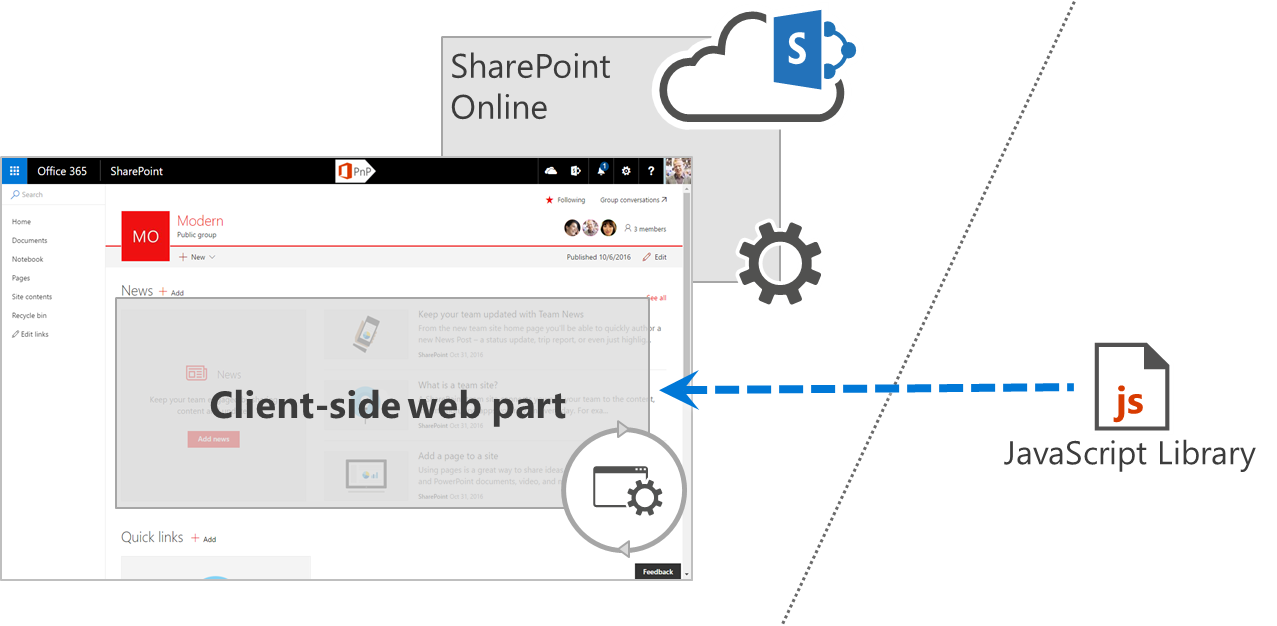
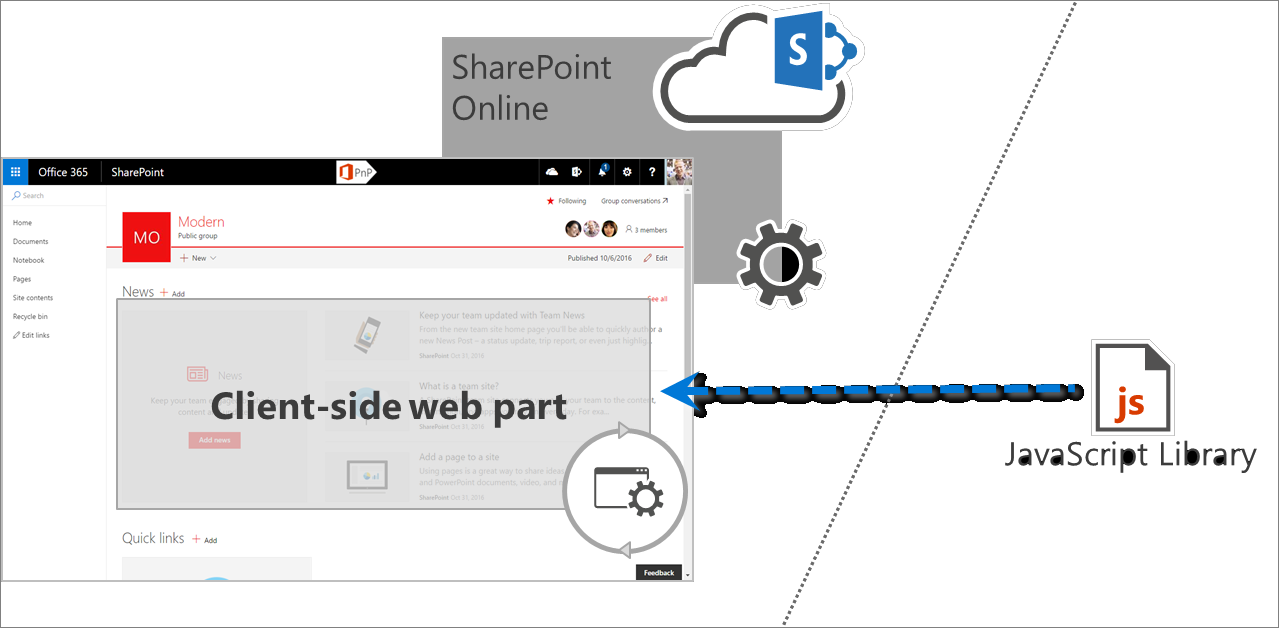
Refreshed "Guidance / SharePoint Framework solutions governance considerations"
- fixed grammar / spelling issues
- cleaned up markdown issues
  - bullet usage
  - code listings
  - correct usage of italic, bold, & inline code formats
- improved Acrolinx score
- added 1px gray border to all images with white/black backgrounds
  - required by MSDocs so it's clear to the reader, regardless of the theme they have selected for MSDocs (light/dark), where images start/stop

diff --git a/docs/spfx/web-parts/guidance/governance-considerations.md b/docs/spfx/web-parts/guidance/governance-considerations.md
@@ -1,66 +1,67 @@
 ---
 title: SharePoint Framework solutions governance considerations
 description: To get the most benefit from SharePoint Framework solutions, your organization should have an actionable governance plan covering the most important project management considerations.
-ms.date: 04/21/2020
+ms.date: 07/01/2020
 ms.prod: sharepoint
 localization_priority: Normal
 ---
-
-
 # SharePoint Framework solutions governance considerations
 
-With the SharePoint Framework, your organization can easily build solutions that easily integrate the capabilities available in SharePoint and Office 365. SharePoint Framework solutions work across modern web technologies and different mobile devices so you can create productive experiences and apps that are responsive and mobile-ready from day one. To get the most benefit from SharePoint Framework solutions, your organization should have an actionable governance plan covering the most important project management considerations.
+With the SharePoint Framework, your organization can easily build solutions that easily integrate the capabilities available in SharePoint and Microsoft 365. SharePoint Framework solutions work across modern web technologies and different mobile devices so you can create productive experiences and apps that are responsive and mobile-ready from day one. To get the most benefit from SharePoint Framework solutions, your organization should have an actionable governance plan covering the most important project management considerations.
+
+> [!NOTE]
+> Throughout this article, the word **component** is used to refer to all types of things developers can build with the SharePoint Framework. This includes client-side web parts, extensions, and library components.
 
 ## Anatomy of SharePoint Framework solutions
 
 ![Diagram illustrating the composition of SharePoint Framework solutions](../../../images/guidance-governance-spfx-structure-schema.png)
 
-SharePoint Framework solutions consist of two parts: code (often referred to as a web part bundle) deployed to a URL, and an .sppkg file that contains a web part manifest with a URL pointing to the location where the web part code is deployed. There are no particular restrictions to where the code is deployed, as long as users working with the web part can access the web part code. Organizations can choose, for example, to have their web parts deployed to the [Office 365 public CDN](https://developer.microsoft.com/office/blogs/office-365-public-cdn-developer-preview-release), [Azure storage](../get-started/deploy-web-part-to-cdn.md), or a privately-owned web server.
+SharePoint Framework solutions consist of two parts: code (often referred to as a component's bundle) deployed to a URL, and an **\*.sppkg** file that contains a component's manifest with a URL pointing to the location where the component's code is deployed. The component's code can be deployed anywhere, as long as users working with the component can access the component's code. Organizations can choose, for example, to have their components deployed to the [Microsoft 365 public CDN](https://developer.microsoft.com/office/blogs/office-365-public-cdn-developer-preview-release), [Azure storage](../get-started/deploy-web-part-to-cdn.md), or a privately owned web server.
 
 ## Web part code-hosting location considerations
 
-The most important thing that organizations should know before deploying SharePoint Framework solutions is where the code of the solution is deployed. SharePoint Framework solutions are executed as a part of the page in the context of the current user. As a result, whatever the user can do, the web part's code can do as well. In contrast to SharePoint Add-ins, there is no separate permission scope applied to SharePoint Framework solutions. This is why SharePoint administrators should treat SharePoint Framework solutions as high-trust solutions, the same way they treat farm solutions on-premises. The location where the web part's code is deployed is important for a number of reasons. 
-
-Consider the following location issues.
+The most important thing that organizations should know before deploying SharePoint Framework solutions is where the code of the solution is deployed. SharePoint Framework solutions are executed as a part of the page in the context of the current user. As a result, whatever the user can do, the component's code can do as well. In contrast to SharePoint Add-ins, there's no separate permission scope applied to SharePoint Framework solutions. This is why SharePoint administrators should treat SharePoint Framework solutions as high-trust solutions, the same way they treat farm solutions on-premises. The location where the component's code is deployed is important for a number of reasons.
 
 ### Is the code-hosting location supported by the organization?
 
-SharePoint Framework doesn't impose any restrictions regarding where the solution's code is deployed. As a result, developers and vendors can deploy the code to a range of locations within or outside the organization's IT department. Different organizations may have different server requirements ranging from access policies to SLAs. Before deploying a SharePoint Framework solution package, organizations should ensure that the server used to host the code is a known server approved to be used by the organization.
+SharePoint Framework doesn't impose any restrictions where the solution's code is deployed. As a result, developers and vendors can deploy the code to a range of locations within or outside the organization's IT department. Different organizations may have different server requirements ranging from access policies to SLAs. 
+
+Before deploying a SharePoint Framework solution package, organizations should ensure that the server used to host the code is a known server approved to be used by the organization.
 
 ### Who manages the code-hosting location?
 
-SharePoint Framework solutions execute as a part of the page in the context of the current user. While an organization could perform a code review before deploying a solution package, to verify that the code can be trusted, it also should ensure the integrity of the code as long as it's deployed to the tenant. Organizations should have a clear understanding of who manages the hosting location, who and under what circumstances they can modify the files, and what the update approval process looks like. Establishing this information upfront not only helps organizations control the update process, but also lowers the risk of deploying malicious code.
+SharePoint Framework solutions execute as a part of the page in the context of the current user. While an organization could do a code review before deploying a solution package, to verify that the code can be trusted, it also should ensure the integrity of the code as long as it's deployed to the tenant. Organizations should have a clear understanding of who manages the hosting location, who and under what circumstances they can modify the files, and what the update approval process looks like. Establishing this information upfront not only helps organizations control the update process, but also lowers the risk of deploying malicious code.
 
 ### What is the SLA for the hosting location?
 
-When organizations use Office 365 and SharePoint Online, they rely on the SLA provided by Microsoft. SharePoint Framework solutions that extend the standard capabilities of SharePoint and Office 365 should be deployed to servers that meet or exceed the SLA provided by Microsoft. That way, organizations can ensure that they are able to truly benefit from the added values of their customizations.
+When organizations use Microsoft 365 and SharePoint Online, they rely on the SLA provided by Microsoft. SharePoint Framework solutions that extend the standard capabilities of SharePoint and Microsoft 365 should be deployed to servers that meet or exceed the SLA provided by Microsoft. That way, organizations can ensure that they're able to truly benefit from the added values of their customizations.
 
 ### Is the hosting location optimized for performance?
 
-Loading existing libraries from a URL instead of embedding them in the web part bundle is the first step to speed up the loading time of SharePoint Framework solutions. To get the most out of it, you want to ensure that the server hosting the different scripts is correctly configured for optimal performance. It should serve all files compressed, and the longer it allows proxies and clients to cache the files, the longer users will be able to load these scripts from their local cache, significantly speeding up loading SharePoint pages containing web parts.
+Loading existing libraries from a URL instead of embedding them in the component bundle is the first step to speed up the loading time of SharePoint Framework solutions. To get the most out of it, you want to ensure that the server hosting the different scripts is correctly configured for optimal performance. It should serve all files compressed, and the longer it allows proxies and clients to cache the files, the longer users will load these scripts from their local cache, significantly speeding up loading SharePoint pages containing components.
 
 ## Tools and libraries
 
-When building client-side solutions, developers can choose from a variety of libraries such as React, Angular, jQuery, or Knockout. Using an existing JavaScript library makes it easier for developers to build rich solutions. There are big differences between how the different libraries work, and often specific knowledge is required to fully understand how to build a solution using the particular library.
+When building client-side solutions, developers can choose from various libraries such as React, Angular, jQuery, or Knockout. Using an existing JavaScript library makes it easier for developers to build rich solutions. There are differences between how the different libraries work, and often specific knowledge is required to fully understand how to build a solution using the particular library.
 
-Once released to your production tenant, you should ensure that your support organization (either your own IT department or a contracted third party) is capable of supporting the solution. To do this, the support organization should have at least a basic understanding of the library used to build that solution. Also, as you increase the number of libraries that you use across your tenant, the harder it is to support the different solutions. Selecting one or two libraries to use in your organization helps you lower the operational costs. Before deploying a solution to your production tenant, you should ensure that the solution is using only libraries supported in your organization.
+Once released to your production tenant, you should ensure that your organization (either your own IT department or a contracted third party) can support the solution. To do this, the support organization should have at least a basic understanding of the library used to build that solution. Also, as you increase the number of libraries that you use across your tenant, the harder it's to support the different solutions. Selecting one or two libraries to use in your organization helps you lower the operational costs. Before deploying a solution to your production tenant, you should ensure that the solution is using only libraries supported in your organization.
 
 ## Using external scripts
 
-When using existing JavaScript libraries, developers can either choose to include them in the web part code bundle or load them from a URL. Loading libraries from URLs allows developers to optimize SharePoint Framework solutions for performance. Because libraries are loaded from a URL, they don't need to be included in the web part bundle, which decreases its size making it load faster. Additionally, by referencing the same libraries across the whole tenant, SharePoint Framework solutions load faster by reusing the previously downloaded scripts from the local cache.
+When using existing JavaScript libraries, developers can either choose to include them in the component code bundle or load them from a URL. Loading libraries from URLs allows developers to optimize SharePoint Framework solutions for performance. Because libraries are loaded from a URL, they don't need to be included in the component bundle, which reduces its size making it load faster. Additionally, by referencing the same libraries across the whole tenant, SharePoint Framework solutions load faster by reusing the previously downloaded scripts from the local cache.
 
-There are no restrictions to where the existing libraries can be loaded from, and it's important to know from which servers the external scripts are loaded. Together with the web part code, these scripts run in the context of the current user and can do whatever the current user is capable of doing. Therefore, it's important that you trust these scripts and their integrity. Some organizations have strict policies relating to resources sourced from public CDNs, and you should ensure that the solution and its resources meet your organizational policies.
+There are no restrictions to where the existing libraries can be loaded from, and it's important to know from which servers the external scripts are loaded. Together with the component code, these scripts run in the context of the current user and can do whatever the current user can do. It's important that you trust these scripts and their integrity. Some organizations have strict policies relating to resources sourced from public CDNs, and you should ensure that the solution and its resources meet your organizational policies.
 
 ## Approving SharePoint Framework solutions for deployment
 
-SharePoint Framework solutions are deployed to a tenant centrally through the app catalog. Your organization should have a plan in place describing who is allowed to deploy and approve SharePoint Framework packages. This is important, because this plan should include who is responsible to verify that the packages that are deployed are secure and meet the organizational policies. SharePoint Framework solutions run in the browser in the context of the current user and, unlike SharePoint Add-ins, always have the same permissions as the currently signed-in user. Before deploying and approving a SharePoint Framework solution for use in your organization, its origin and other criteria mentioned previously in this article should be carefully examined.
+SharePoint Framework solutions are deployed to a tenant centrally through the app catalog. They can also be deployed to select sites using the site collection scoped app catalog. Your organization should have a plan in place describing who is allowed to deploy and approve SharePoint Framework packages. This is important, because this plan should include who is responsible to verify that the packages that are deployed are secure and meet the organizational policies. SharePoint Framework solutions run in the browser in the context of the current user and, unlike SharePoint Add-ins, always have the same permissions as the currently signed-in user. Before deploying and approving a SharePoint Framework solution for use in your organization, its origin and other criteria mentioned previously in this article should be carefully examined.
 
-To verify that your SharePoint Framework solution meets your organization's policies, you should review the contents of the .sppkg package that you want to deploy and closely examine the contents of the referenced scripts and the location where they are hosted. This step can be performed manually, or it can be automated by using third-party tooling. [SharePoint Customization Analysis Framework](https://rencore.com/products/#spcaf) (SPCAF) is an example of a third-party solution that significantly simplifies the process of analyzing the contents of SharePoint Framework solutions and verifying that they meet your organizational security and governance requirements.
+To verify that your SharePoint Framework solution meets your organization's policies, you should review the contents of the **\*.sppkg** package that you want to deploy and closely examine the contents of the referenced scripts and the location where they're hosted. This step can be performed manually, or it can be automated by using third-party tooling. [SharePoint Customization Analysis Framework](https://rencore.com/products/#spcaf) (SPCAF) is an example of a third-party solution that significantly simplifies the process of analyzing the contents of SharePoint Framework solutions and verifying that they meet your organizational security and governance requirements.
 
 ## SharePoint Framework solutions and no-script sites
 
-In Office 365, organizations can use the no-script setting to disable script-based customizations in SharePoint Online. Organizations can configure the no-script setting either for the whole tenant or for a particular site collection. Based on the criteria from the organizational policies, administrators can use the no-script setting to disable customizations built, for example, by using the Script Editor web part or a user custom action.
+In Microsoft 365, organizations can use the no-script setting to disable script-based customizations in SharePoint Online. Organizations can configure the no-script setting either for the whole tenant or for a particular site collection. Based on the criteria from the organizational policies, administrators can use the no-script setting to disable customizations built, for example, by using the Script Editor component or a user custom action.
 
-The no-script setting is meant for organizations to apply an additional layer of control and security to either the whole tenant or specific site collections. Customizing SharePoint using script embedding and injecting is not without risks, and particularly on sites containing sensitive information, should be thoroughly evaluated.
+The no-script setting is meant for organizations to apply an additional layer of control and security to either the whole tenant or specific site collections. Customizing SharePoint using script embedding and injecting isn't without risks, and particularly on sites containing sensitive information, should be thoroughly evaluated.
 
-In the past, developers used script embedding and injecting techniques for building powerful SharePoint customizations. In some cases, these customizations relied on specific page structure, and when the particular customization changed, it would stop working correctly. To guide developers to build more robust solutions, the SharePoint engineering team decided that all modern sites should have the no-script setting enabled. This means that embedding and injecting scripts on these sites is not possible, and using the SharePoint Framework is currently the only option to customize these sites. In the future, all modern sites will use the no-script setting, and alternatives to script embedding and injecting will become available for developers to support the different scenarios.
+In the past, developers used script embedding and injecting techniques for building powerful SharePoint customizations. In some cases, these customizations relied on specific page structure, and when the particular customization changed, it would stop working correctly. To guide developers to build more robust solutions, the SharePoint engineering team decided that all modern sites should have the no-script setting enabled. This means that embedding and injecting scripts on these sites isn't possible, and using the SharePoint Framework is currently the only option to customize these sites. In the future, all modern sites will use the no-script setting, and alternatives to script embedding and injecting will become available for developers to support the different scenarios.
